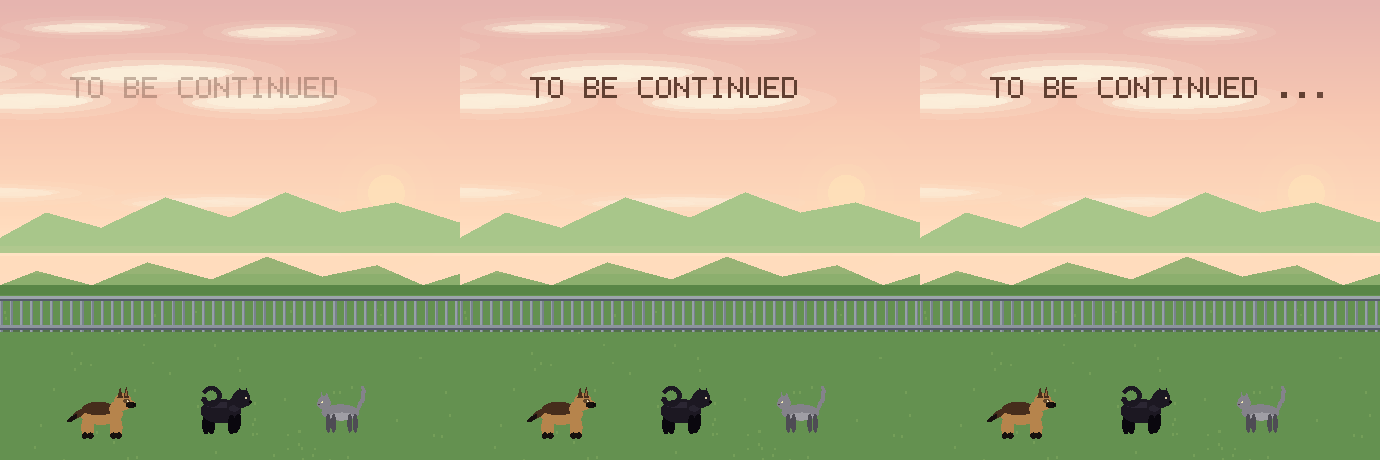
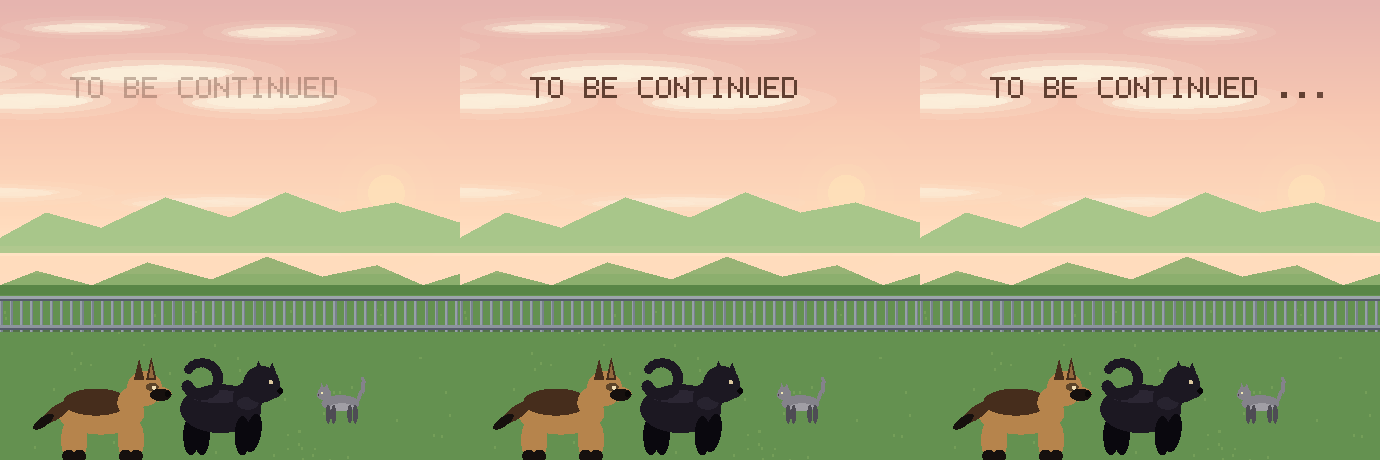
improvements

Changed region(s): [[0.0, 0.7609, 0.2804, 1.0], [0.6855, 0.7609, 0.9348, 1.0], [0.3428, 0.7609, 0.6232, 1.0]]

diff --git a/scenes/continued.js b/scenes/continued.js
@@ -328,20 +328,21 @@
 
     /* 10. ANIMALS — foreground, the largest brightest figures ------------*/
     // Bounce/twitch derived from t. Cat does a jump arc around u in [0.55, 0.72].
-    var animalScl = 2.0 * sc;       // bumped — animals are foreground/close to camera
-    var groundY = 0.88 * H;          // slight drop to fit larger silhouettes
+    var dogScl = 4.0 * sc;           // dogs are big foreground subjects (2× the cat)
+    var catScl = 2.0 * sc;           // cat remains smaller — sits in mid-foreground
+    var groundY = 0.86 * H;          // moved up slightly so the larger dogs fit
 
     // brown dog (left)
     var bdBob = Math.sin(t * 4.0) * 1.6 * sc;
     var bdTail = Math.sin(t * 8.0) * 0.5;
     var bdEar = Math.sin(t * 3.5 + 1.2) * 0.15;
-    brownDog(D, 0.22 * W, groundY, animalScl, bdBob, bdTail, bdEar);
+    brownDog(D, 0.22 * W, groundY, dogScl, bdBob, bdTail, bdEar);
 
     // black dog (center)
     var kdBob = Math.sin(t * 4.4 + 1.0) * 1.8 * sc;
     var kdTail = Math.sin(t * 9.0 + 0.7) * 0.6;
     var kdEar = Math.sin(t * 4.0 + 0.4) * 0.3;
-    blackDog(D, 0.48 * W, groundY, animalScl, kdBob, kdTail, kdEar);
+    blackDog(D, 0.48 * W, groundY, dogScl, kdBob, kdTail, kdEar);
 
     // gray cat (right) — does a little jump arc once per loop
     var jumpStart = 0.55, jumpEnd = 0.72;
@@ -354,7 +355,7 @@
     var catBob = Math.sin(t * 5.0 + 2.0) * 1.2 * sc;
     var catTail = Math.sin(t * 3.0) * 0.5;
     var catEar = Math.sin(t * 4.5 + 0.8) * 0.2;
-    grayCat(D, 0.74 * W, groundY + jumpY, animalScl, catBob, catTail, catEar);
+    grayCat(D, 0.74 * W, groundY + jumpY, catScl, catBob, catTail, catEar);
 
     /* 11. Subtle warm light wash near horizon (golden hour vibe) ---------*/
     D.rect(0, horizonY - 0.015 * H, W, 0.06 * H, 255, 220, 180, 0.10);
